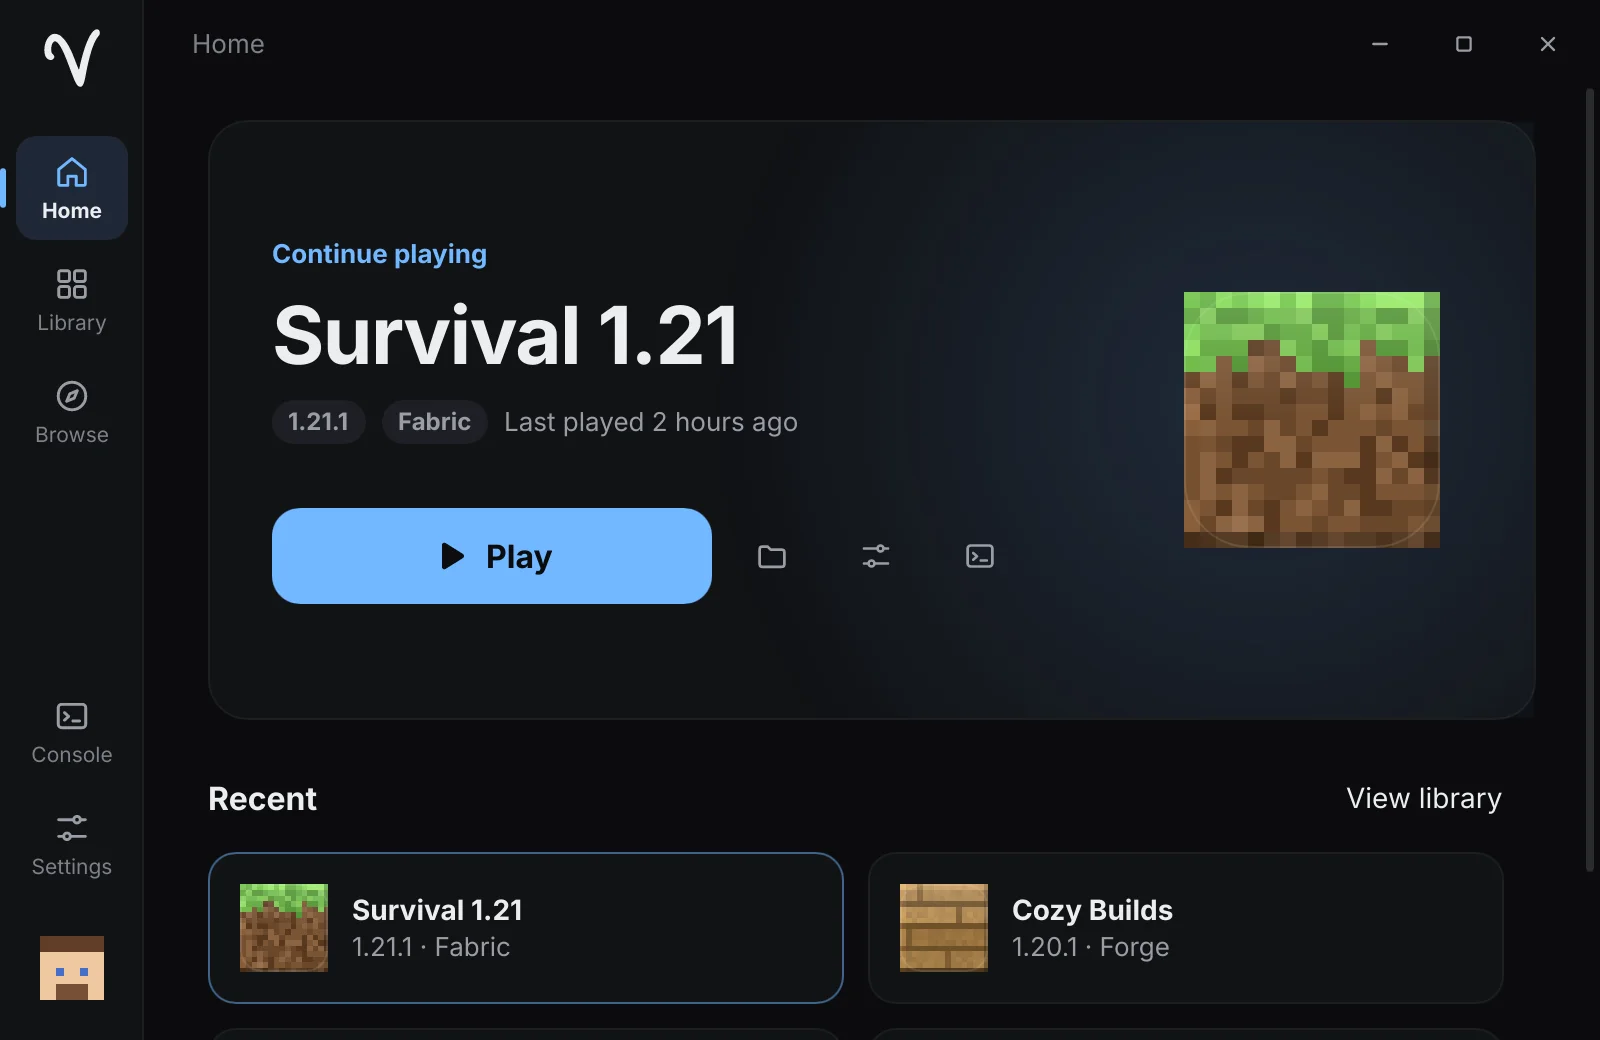
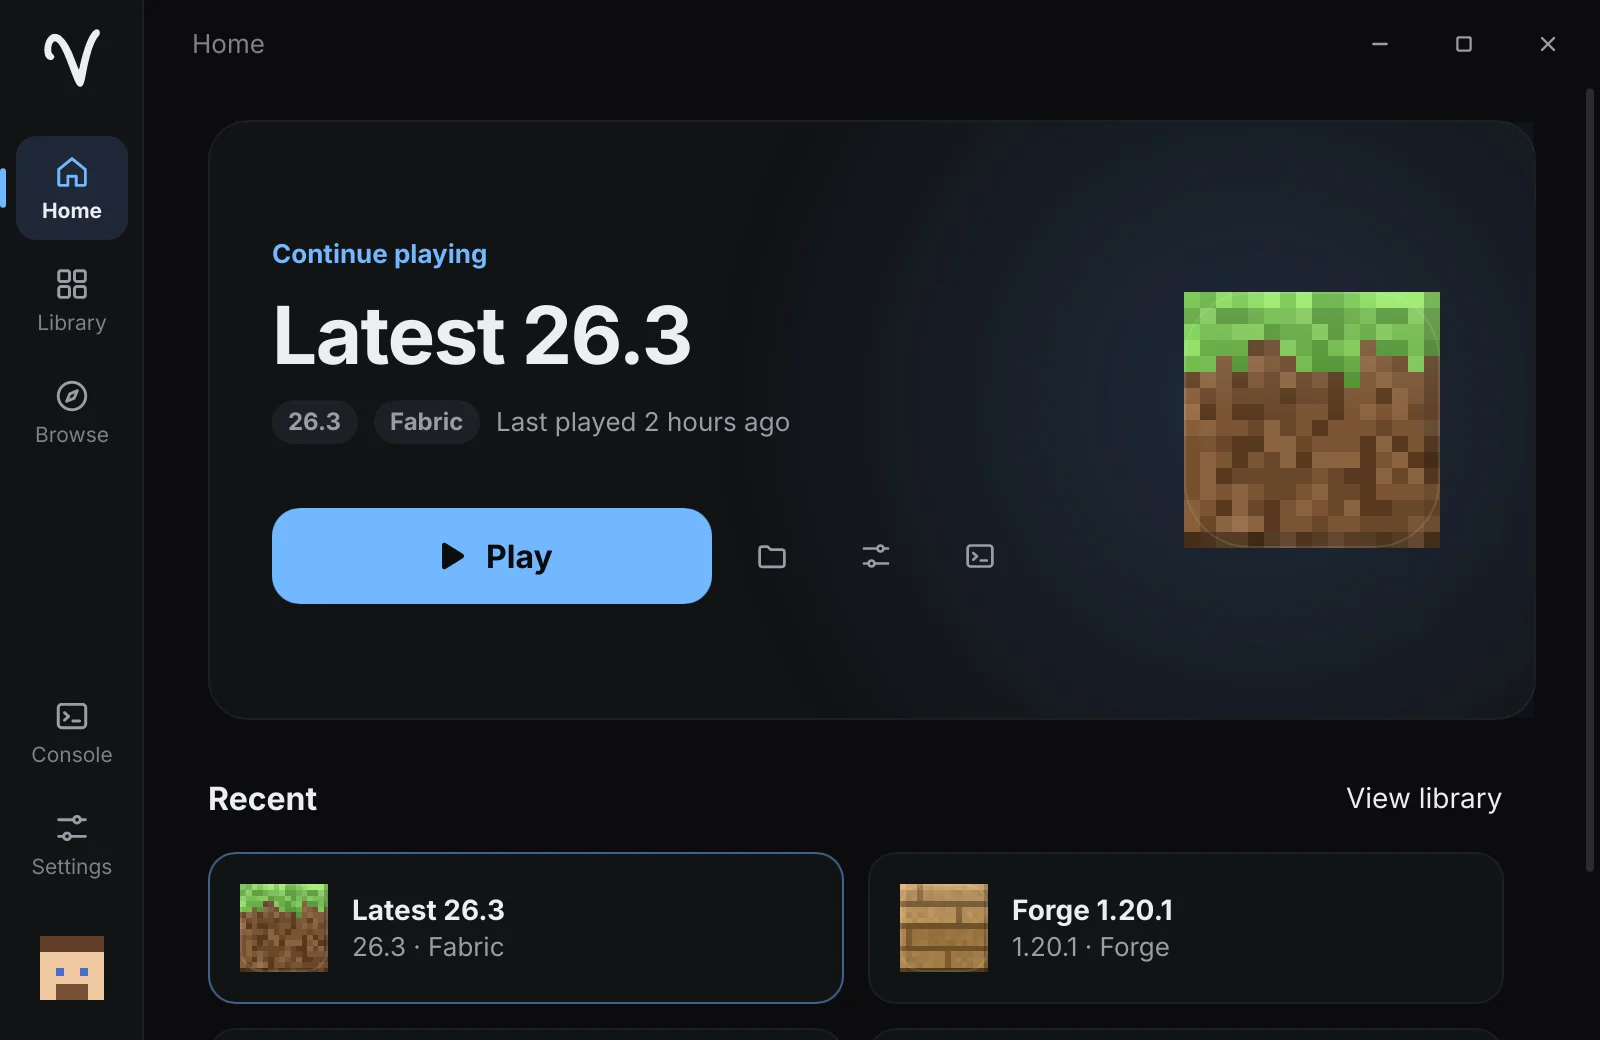
docs(web): version-style names for the sample instances in screenshots

diff --git a/web/index.html b/web/index.html
@@ -8,23 +8,23 @@
   <meta name="theme-color" content="#0b0c0e">
   <link rel="canonical" href="https://getvanta.xyz/">
   <link rel="icon" href="favicon.ico" sizes="any">
-  <link rel="icon" href="assets/favicon-32.png?v=0.1.4c" sizes="32x32" type="image/png">
-  <link rel="apple-touch-icon" href="assets/apple-touch-icon.png?v=0.1.4c">
+  <link rel="icon" href="assets/favicon-32.png?v=0.1.4e" sizes="32x32" type="image/png">
+  <link rel="apple-touch-icon" href="assets/apple-touch-icon.png?v=0.1.4e">
   <meta property="og:title" content="Vanta — a fast, minimal Minecraft launcher">
   <meta property="og:description" content="Native, tiny, instant. Mod loaders and Modrinth built in. Open source, no telemetry.">
   <meta property="og:image" content="https://getvanta.xyz/assets/screenshots/home.png">
   <meta property="og:type" content="website">
   <link rel="preload" href="assets/fonts/Inter-Regular.woff2" as="font" type="font/woff2" crossorigin>
   <link rel="preload" href="assets/fonts/Inter-Bold.woff2" as="font" type="font/woff2" crossorigin>
-  <link rel="stylesheet" href="assets/tokens.css?v=0.1.4c">
-  <link rel="stylesheet" href="assets/site.css?v=0.1.4c">
+  <link rel="stylesheet" href="assets/tokens.css?v=0.1.4e">
+  <link rel="stylesheet" href="assets/site.css?v=0.1.4e">
 </head>
 <body>
   <a class="skip" href="#main">Skip to content</a>
   <header class="nav">
     <div class="wrap nav-inner">
       <a class="brand" href="#" aria-label="Vanta home">
-        <img src="assets/logo.png?v=0.1.4c" width="22" height="22" alt="">
+        <img src="assets/logo.png?v=0.1.4e" width="22" height="22" alt="">
         <span>Vanta</span>
       </a>
       <nav aria-label="Primary">
@@ -53,7 +53,7 @@
         </div>
         <p class="hint reveal" id="download-hint">Free forever. GPL-3.0.</p>
         <figure class="shot reveal">
-          <img src="assets/screenshots/home.webp?v=0.1.4c" width="800" height="520" alt="The Vanta home screen showing the featured instance and a Play button" fetchpriority="high">
+          <img src="assets/screenshots/home.webp?v=0.1.4e" width="800" height="520" alt="The Vanta home screen showing the featured instance and a Play button" fetchpriority="high">
         </figure>
       </div>
     </section>
@@ -87,12 +87,12 @@
     <section class="wrap section">
       <h2 class="reveal">A closer look</h2>
       <div class="gallery">
-        <figure class="reveal"><img src="assets/screenshots/library.webp?v=0.1.4c" width="800" height="520" loading="lazy" alt="Library with instance cards"><figcaption>Library</figcaption></figure>
-        <figure class="reveal"><img src="assets/screenshots/browse.webp?v=0.1.4c" width="800" height="520" loading="lazy" alt="Browsing mods from Modrinth"><figcaption>Browse Modrinth</figcaption></figure>
-        <figure class="reveal"><img src="assets/screenshots/instance.webp?v=0.1.4c" width="800" height="520" loading="lazy" alt="Instance page with installed mods"><figcaption>Manage content</figcaption></figure>
-        <figure class="reveal"><img src="assets/screenshots/launching.webp?v=0.1.4c" width="800" height="520" loading="lazy" alt="Play button filling with live download progress"><figcaption>Live progress</figcaption></figure>
-        <figure class="reveal"><img src="assets/screenshots/project.webp?v=0.1.4c" width="800" height="520" loading="lazy" alt="Mod details inside Vanta"><figcaption>Install in one click</figcaption></figure>
-        <figure class="reveal"><img src="assets/screenshots/home-light.webp?v=0.1.4c" width="800" height="520" loading="lazy" alt="Vanta in the light theme"><figcaption>Light theme</figcaption></figure>
+        <figure class="reveal"><img src="assets/screenshots/library.webp?v=0.1.4e" width="800" height="520" loading="lazy" alt="Library with instance cards"><figcaption>Library</figcaption></figure>
+        <figure class="reveal"><img src="assets/screenshots/browse.webp?v=0.1.4e" width="800" height="520" loading="lazy" alt="Browsing mods from Modrinth"><figcaption>Browse Modrinth</figcaption></figure>
+        <figure class="reveal"><img src="assets/screenshots/instance.webp?v=0.1.4e" width="800" height="520" loading="lazy" alt="Instance page with installed mods"><figcaption>Manage content</figcaption></figure>
+        <figure class="reveal"><img src="assets/screenshots/launching.webp?v=0.1.4e" width="800" height="520" loading="lazy" alt="Play button filling with live download progress"><figcaption>Live progress</figcaption></figure>
+        <figure class="reveal"><img src="assets/screenshots/project.webp?v=0.1.4e" width="800" height="520" loading="lazy" alt="Mod details inside Vanta"><figcaption>Install in one click</figcaption></figure>
+        <figure class="reveal"><img src="assets/screenshots/home-light.webp?v=0.1.4e" width="800" height="520" loading="lazy" alt="Vanta in the light theme"><figcaption>Light theme</figcaption></figure>
       </div>
     </section>
 
@@ -125,11 +125,11 @@
 
   <footer class="footer">
     <div class="wrap footer-inner">
-      <div class="brand"><img src="assets/logo.png?v=0.1.4c" width="18" height="18" alt=""><span>Vanta</span></div>
+      <div class="brand"><img src="assets/logo.png?v=0.1.4e" width="18" height="18" alt=""><span>Vanta</span></div>
       <p>NOT AN OFFICIAL MINECRAFT PRODUCT. NOT APPROVED BY OR ASSOCIATED WITH MOJANG OR MICROSOFT. Vanta downloads game files from official sources and never redistributes them.</p>
       <p><a href="https://github.com/Inpriv/vanta">GitHub</a> · <a href="https://github.com/Inpriv/vanta/blob/main/LICENSE">GPL-3.0-or-later</a> · <a href="https://github.com/Inpriv/vanta/blob/main/SECURITY.md">Security</a></p>
     </div>
   </footer>
-  <script src="assets/site.js?v=0.1.4c" defer></script>
+  <script src="assets/site.js?v=0.1.4e" defer></script>
 </body>
 </html>

diff --git a/crates/vanta-app/examples/screenshots.rs b/crates/vanta-app/examples/screenshots.rs
@@ -101,15 +101,15 @@ fn fill(ui: &AppWindow) {
     let instances = vec![
         inst(
             "survival",
-            "Survival 1.21",
+            "Latest 26.3",
             "grass",
-            "1.21.1",
+            "26.3",
             "Fabric",
             "2 hours ago",
         ),
         inst(
             "create",
-            "Cozy Builds",
+            "Forge 1.20.1",
             "planks",
             "1.20.1",
             "Forge",
